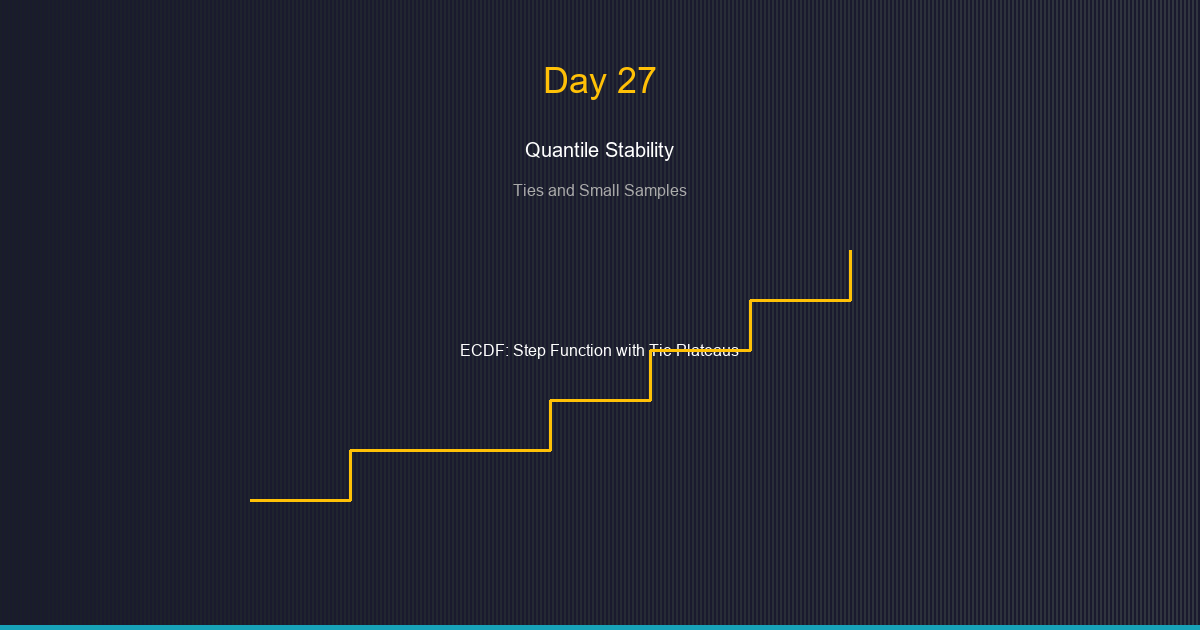
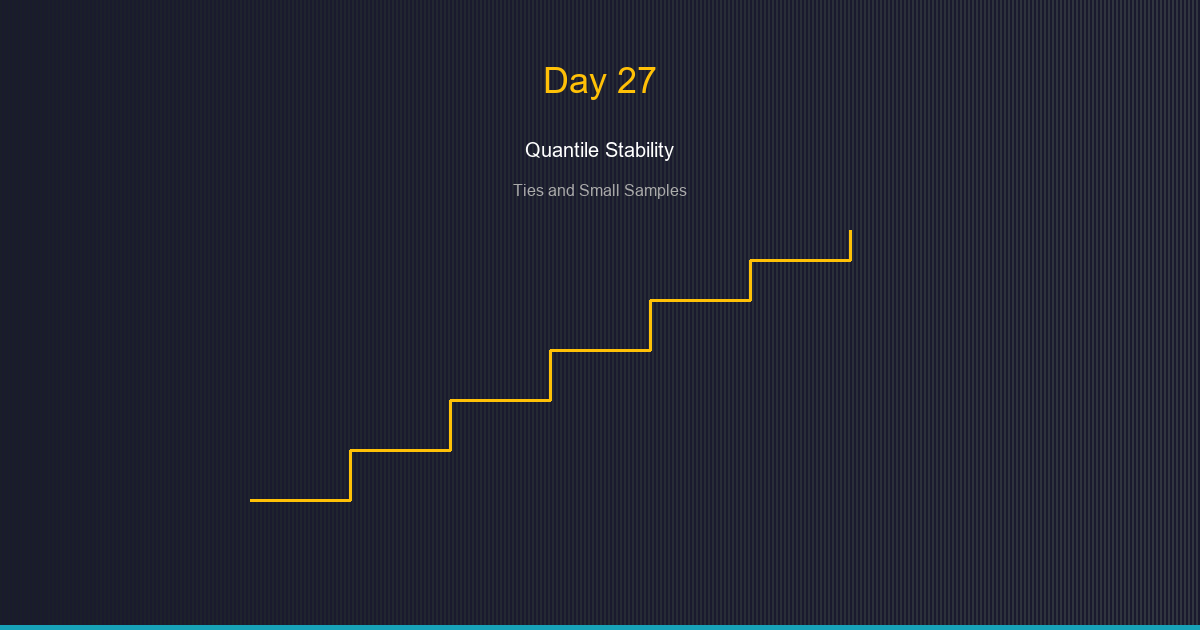
Fix DS-27 header image - remove overlapping text from staircase chart

diff --git a/create_ds25_to_ds30_images.py b/create_ds25_to_ds30_images.py
@@ -364,11 +364,9 @@ def create_ds27_images():
     # Header
     img, draw = create_header(27, "Quantile Stability", "Ties and Small Samples", BLUE)
     
-    # ECDF staircase
-    draw.text((600, 350), "ECDF: Step Function with Tie Plateaus", fill='white', font=font_medium, anchor='mm')
-    
+    # ECDF staircase - moved text below chart to avoid overlap
     # Simple staircase
-    steps = [(250, 500), (350, 450), (450, 450), (550, 400), (650, 350), (750, 300), (850, 250)]
+    steps = [(250, 500), (350, 450), (450, 400), (550, 350), (650, 300), (750, 260), (850, 230)]
     for i in range(len(steps) - 1):
         draw.line([steps[i], (steps[i+1][0], steps[i][1])], fill=YELLOW, width=3)
         draw.line([(steps[i+1][0], steps[i][1]), steps[i+1]], fill=YELLOW, width=3)
